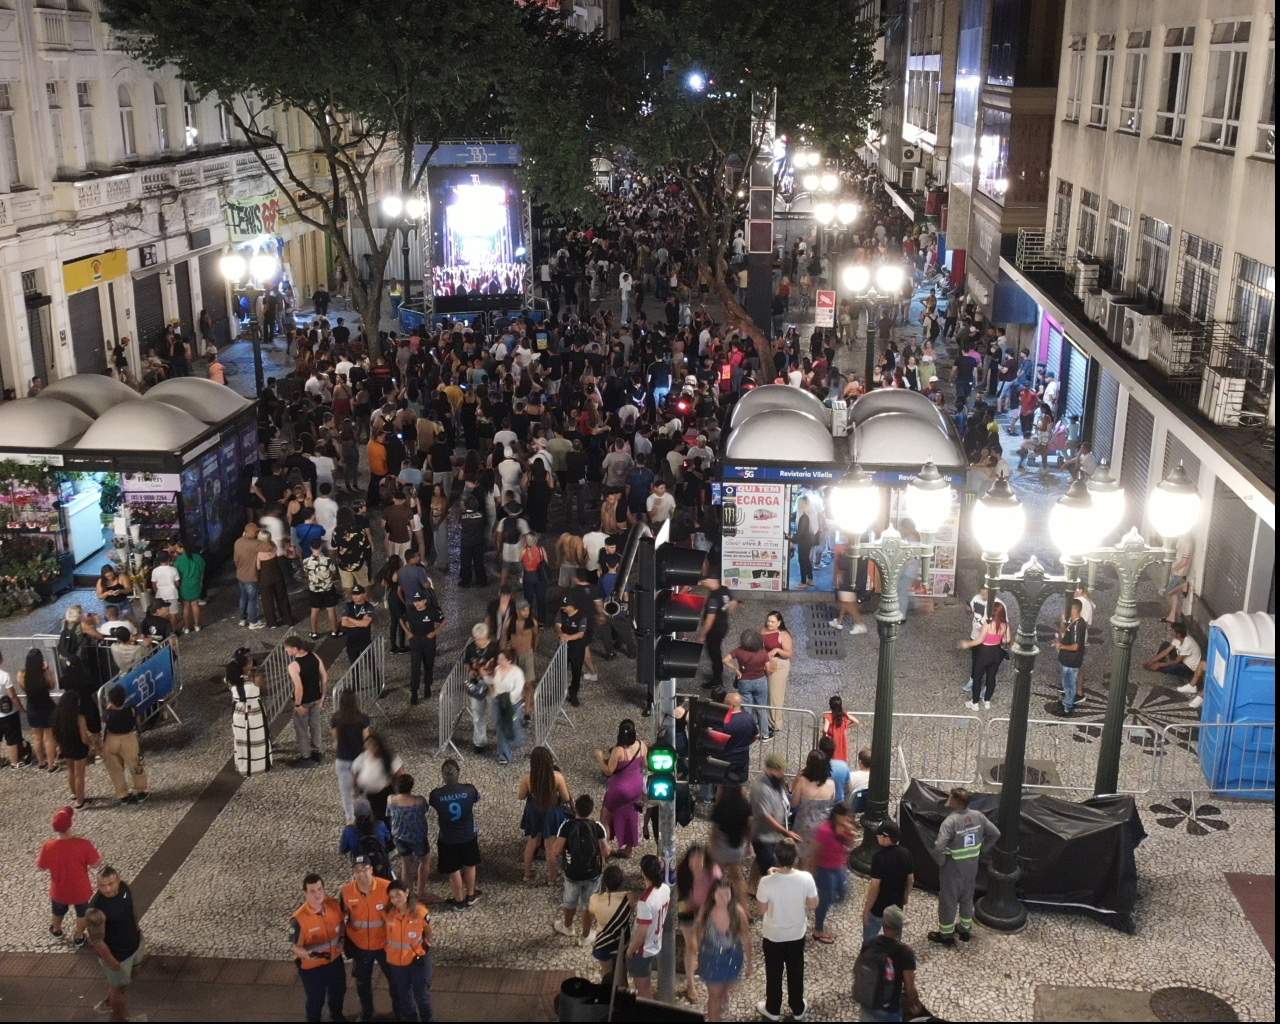
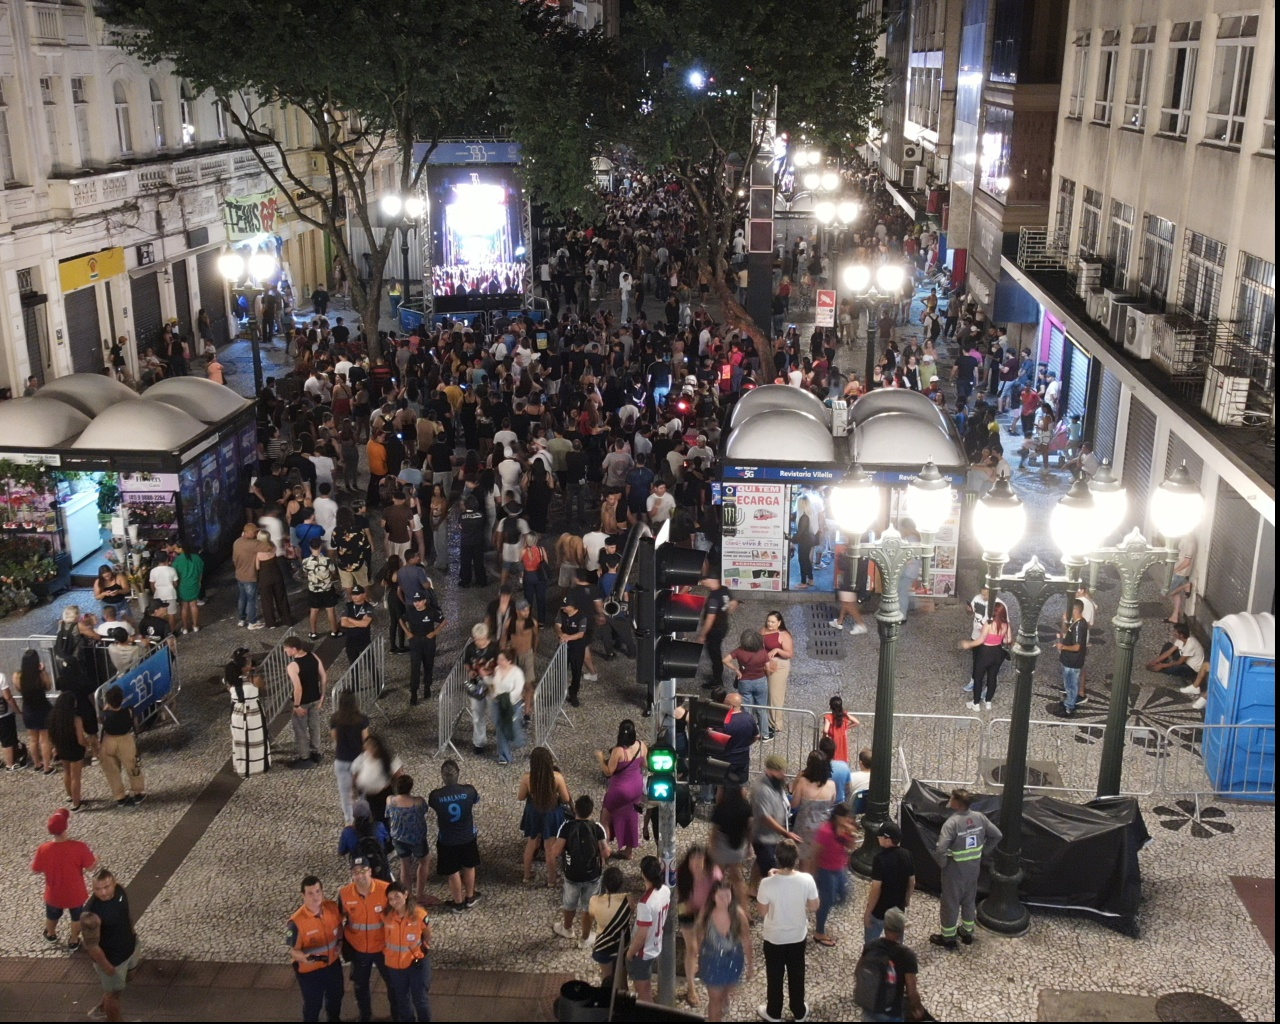
feat(preprocessing): implement radial lens undistortion (Proposta B) and ground-plane focused alignment (Proposta A) for Silver layer

diff --git a/count-github-def_rgbtcc/app/head_counting/preprocessing.py b/count-github-def_rgbtcc/app/head_counting/preprocessing.py
@@ -6,7 +6,9 @@ This module provides a decoupled, independent preprocessor (`RGBTImageEqualizer`
 to perform pixel-level layer alignment (co-registration) between RGB and Thermal image pairs.
 
 Key Capabilities:
+- Lens Undistortion Correction (`undistort_lens`): Corrects Wide 24mm lens barrel distortion.
 - Precise FOV Aspect-Ratio Matching (Corrects 4:3 vs 5:4 sensor aspect ratio mismatch eliminating lateral shearing/squeeze).
+- Ground-Plane ROI Focused Co-registration: Prioritizes pedestrian surface alignment over rooftop parallax.
 - Fine-tuning Translation Offsets (`shift_rgb_x`, `shift_rgb_y`) applied strictly to RGB image.
 - Aspect Ratio Preservation with Letterbox Padding.
 - Robust Partial Affine Co-registration with Sanity Checks (Scale & Translation bounds).
@@ -35,6 +37,7 @@ class RGBTImageEqualizer:
         clahe_clip_limit: Threshold limit for contrast limiting in CLAHE.
         clahe_tile_grid: Grid size for histogram equalization (e.g. (8, 8)).
         fov_crop_ratio: Center crop height ratio for Wide RGB matching Thermal FOV (default 0.70 / 70%).
+        undistort_lens: If True, corrects Wide lens radial barrel distortion.
         shift_rgb_x: Horizontal shift in pixels applied strictly to RGB image (negative = left).
         shift_rgb_y: Vertical shift in pixels applied strictly to RGB image (negative = up).
         mode: Alignment mode ("homography", "affine", or "crop").
@@ -48,6 +51,7 @@ class RGBTImageEqualizer:
         clahe_clip_limit: float = 2.5,
         clahe_tile_grid: Tuple[int, int] = (8, 8),
         fov_crop_ratio: float = 0.70,
+        undistort_lens: bool = True,
         shift_rgb_x: int = -5,
         shift_rgb_y: int = -2,
         mode: str = "homography",
@@ -61,6 +65,7 @@ class RGBTImageEqualizer:
             clahe_clip_limit: CLAHE clip limit.
             clahe_tile_grid: CLAHE tile grid dimensions tuple.
             fov_crop_ratio: Wide RGB center crop height ratio matching Thermal HFOV (default 0.70).
+            undistort_lens: Corrects 24mm Wide lens barrel distortion.
             shift_rgb_x: Direct horizontal shift in pixels for RGB (default -5px left).
             shift_rgb_y: Direct vertical shift in pixels for RGB (default -2px up).
             mode: Alignment mode ("homography", "affine", or "crop").
@@ -71,6 +76,7 @@ class RGBTImageEqualizer:
         self.clahe_clip_limit = clahe_clip_limit
         self.clahe_tile_grid = clahe_tile_grid
         self.fov_crop_ratio = fov_crop_ratio
+        self.undistort_lens = undistort_lens
         self.shift_rgb_x = shift_rgb_x
         self.shift_rgb_y = shift_rgb_y
         self.mode = mode.lower()
@@ -80,6 +86,26 @@ class RGBTImageEqualizer:
             if self.thermal_clahe
             else None
         )
+
+    def _undistort_wide_lens(self, rgb_img: np.ndarray) -> np.ndarray:
+        """Applies radial lens undistortion correction to Wide 24mm optical sensor.
+
+        Args:
+            rgb_img: Input raw BGR NumPy array image.
+
+        Returns:
+            Undistorted BGR NumPy array image.
+        """
+        if not self.undistort_lens:
+            return rgb_img
+
+        h, w = rgb_img.shape[:2]
+        K = np.array(
+            [[w * 0.8, 0, w / 2], [0, h * 0.8, h / 2], [0, 0, 1]], dtype=np.float32
+        )
+        dist_coeffs = np.array([-0.04, 0.01, 0, 0], dtype=np.float32)
+
+        return cv2.undistort(rgb_img, K, dist_coeffs)
 
     def _fov_center_crop(
         self, rgb_img: np.ndarray, thermal_img: np.ndarray | None = None, crop_ratio: float | None = None
@@ -95,7 +121,9 @@ class RGBTImageEqualizer:
             Aspect-ratio matched center-cropped RGB BGR NumPy array image.
         """
         ratio = crop_ratio if crop_ratio is not None else self.fov_crop_ratio
-        h_rgb, w_rgb = rgb_img.shape[:2]
+        rgb_prep = self._undistort_wide_lens(rgb_img)
+
+        h_rgb, w_rgb = rgb_prep.shape[:2]
 
         # Target aspect ratio: match target_w / target_h (or thermal_img aspect ratio)
         if thermal_img is not None:
@@ -116,7 +144,7 @@ class RGBTImageEqualizer:
         left = (w_rgb - crop_w) // 2
         top = (h_rgb - crop_h) // 2
 
-        return rgb_img[top : top + crop_h, left : left + crop_w].copy()
+        return rgb_prep[top : top + crop_h, left : left + crop_w].copy()
 
     def align_homography(
         self, rgb_img: np.ndarray, thermal_img: np.ndarray
